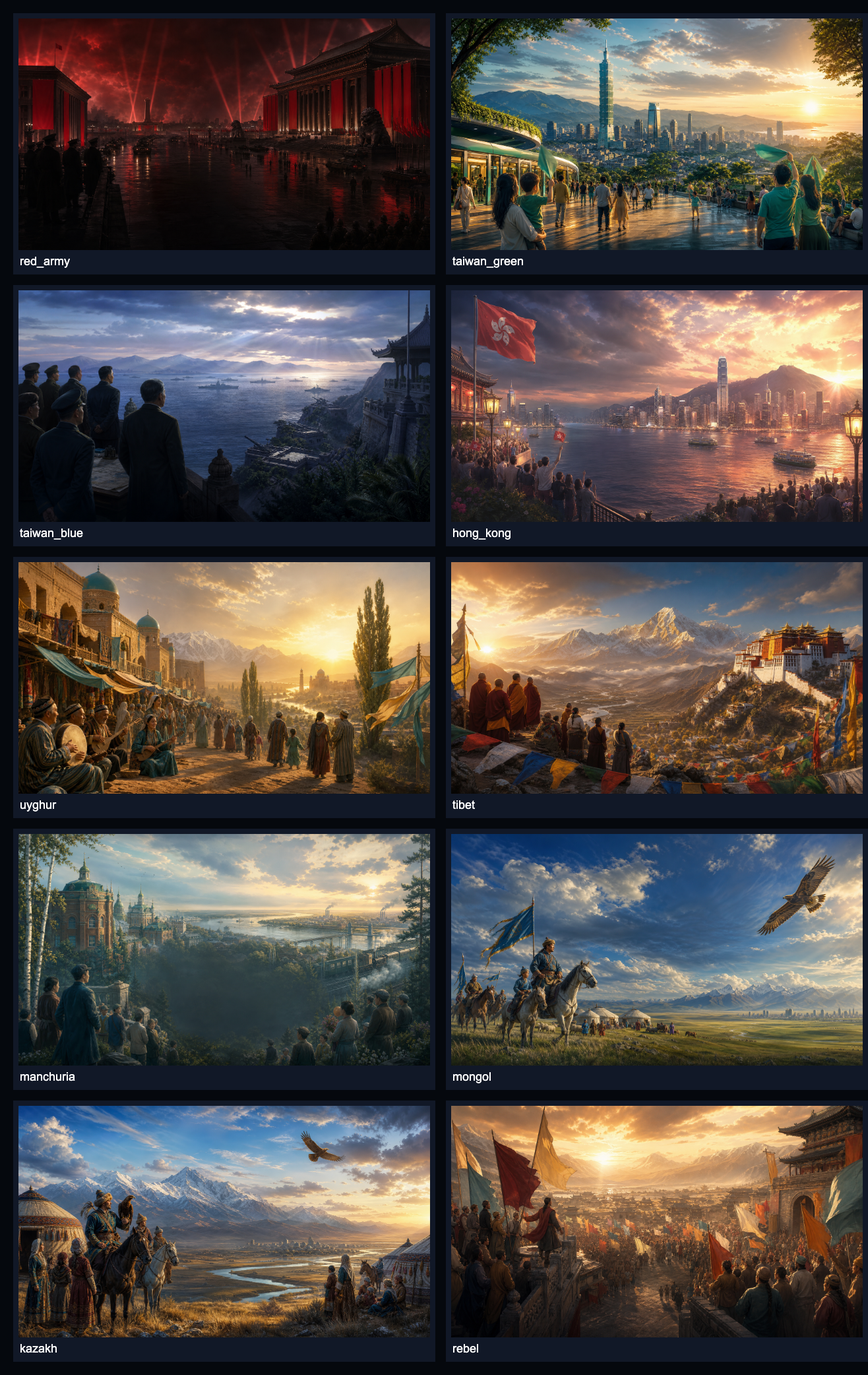
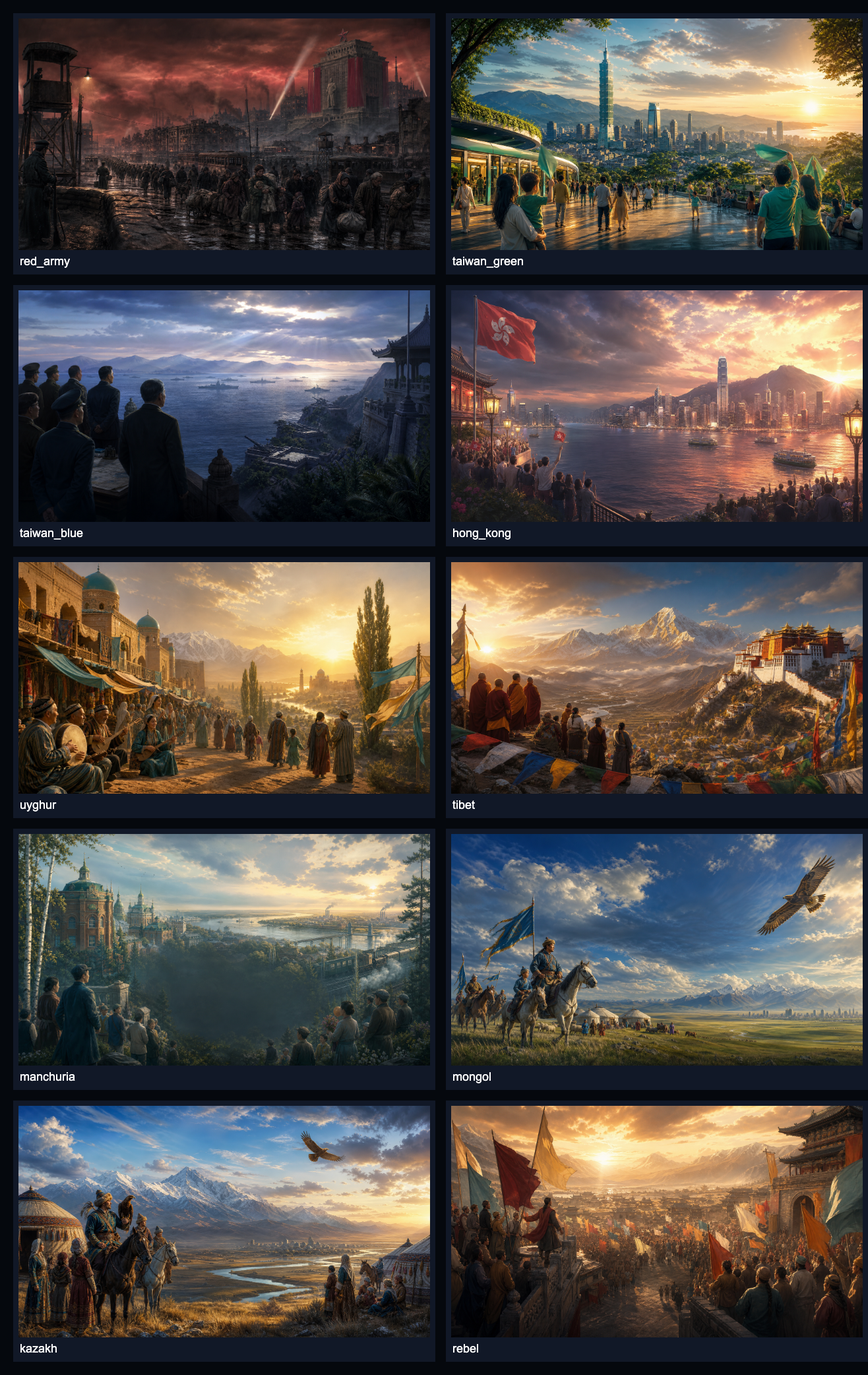
fix: 強化紅軍勝利後的生靈塗炭畫面

Changed region(s): [[0.0, 0.0, 0.4985, 0.1871]]

diff --git a/static/style.css b/static/style.css
@@ -2696,6 +2696,13 @@ button.player-status-discard-card:focus-visible {
   margin-bottom: 4px;
 }
 
+/* 紅軍結局把資訊板移到上緣，刻意露出下半部的流離失所者與泥濘難民隊伍；其他陣營仍維持
+   底部資訊板，讓這個結局第一眼就不是閱兵式勝利，而是政權勝利造成的人間災難。 */
+.victory-ending-scene--red_army + .victory-glass {
+  align-self: flex-start;
+  background: linear-gradient(135deg, rgba(7, 10, 16, 0.8), rgba(15, 23, 42, 0.64));
+}
+
 .victory-ending {
   margin: 6px 0 8px;
   overflow: hidden;

diff --git a/static/app.js b/static/app.js
@@ -3004,7 +3004,7 @@ function renderMyEraStageView(state = window.lastGameState || {}) {
 // 勝利畫面（2026-07-19）：state.winner 之前從未被前端顯示，遊戲結束毫無提示
 //（20 回合自動桌測發現）。winner 的值是「red_army」或獲勝玩家的名字（見 victory.py）。
 let victoryModalDismissedFor = null;
-const VICTORY_ENDING_ART_VERSION = '20260806-ai-v1';
+const VICTORY_ENDING_ART_VERSION = '20260806-ai-v2';
 
 function victoryEndingArtUrl(sceneKey) {
   return sceneKey

diff --git a/static/index.html b/static/index.html
@@ -4,7 +4,7 @@
   <meta charset="UTF-8" />
   <title>REDLINE // STRATEGIC COMMAND</title>
   <link rel="icon" href="data:," />
-  <link rel="stylesheet" href="/static/style.css?v=victory-ai-art-20260806" />
+  <link rel="stylesheet" href="/static/style.css?v=victory-ai-art-red-20260806" />
 </head>
 <body>
 <div id="stageViewport">

diff --git a/scripts/generate_victory_ending_ai_art.py b/scripts/generate_victory_ending_ai_art.py
@@ -12,6 +12,7 @@ Existing non-empty PNGs are skipped, so interrupted batches can be resumed safel
 
 from __future__ import annotations
 
+import argparse
 import importlib
 import json
 import shutil
@@ -35,11 +36,16 @@ STYLE = (
 
 SCENES = {
     "red_army": (
-        "Red Army victory: a vast authoritarian capital at night inspired by Beijing, "
-        "monumental government architecture, regimented red searchlights and severe crimson "
-        "banners without symbols, armored silhouettes far in the background, rain-wet plaza, "
-        "ordinary people reduced to small shadowed figures, oppressive iron-red sky. The mood "
-        "is chilling triumph and total control, not celebration."
+        "Red Army victory, shown entirely from the human cost of totalitarian conquest: a once-"
+        "prosperous East Asian metropolis has become a rain-soaked wasteland of burned apartment "
+        "blocks, collapsed shops, shattered civic buildings, blacked-out homes and abandoned "
+        "public transit. Long columns of exhausted displaced civilians—elderly people, parents "
+        "carrying children, families dragging their remaining belongings—move through mud and "
+        "ash beneath armed checkpoints and watchtowers. Searchlights rake the ruins, factory smoke "
+        "and distant fires choke an iron-red sky, severe blank crimson banners hang from a vast "
+        "authoritarian monument. Show hunger, grief, fear, homelessness and a whole society crushed; "
+        "the victory must feel unmistakably catastrophic, bleak and morally horrifying, never "
+        "heroic or celebratory. No gore, no corpses, no active violence."
     ),
     "taiwan_green": (
         "Taiwan green-line victory: a free, democratic and prosperous Taiwan at sunrise, "
@@ -111,35 +117,39 @@ def png_dimensions(path: Path) -> tuple[int, int]:
 
 
 def main() -> None:
+    parser = argparse.ArgumentParser()
+    parser.add_argument("--scene", choices=SCENES, help="Generate only one scene")
+    parser.add_argument("--force", action="store_true", help="Replace an existing scene")
+    args = parser.parse_args()
+
     provider_module = importlib.import_module("plugins.image_gen.openai-codex")
     provider = provider_module.OpenAICodexImageGenProvider()
     if not provider.is_available():
         raise SystemExit("No usable Codex OAuth token")
 
     OUTPUT_DIR.mkdir(parents=True, exist_ok=True)
-    manifest: dict[str, dict[str, object]] = {}
+    selected = {args.scene: SCENES[args.scene]} if args.scene else SCENES
 
-    for index, (key, scene) in enumerate(SCENES.items(), start=1):
+    for index, (key, scene) in enumerate(selected.items(), start=1):
         destination = OUTPUT_DIR / f"{key}.png"
-        if destination.exists() and destination.stat().st_size > 0:
+        if not args.force and destination.exists() and destination.stat().st_size > 0:
             width, height = png_dimensions(destination)
-            print(f"[{index}/{len(SCENES)}] SKIP {key}: {width}x{height}", flush=True)
-            manifest[key] = {
-                "file": destination.relative_to(ROOT).as_posix(),
-                "width": width,
-                "height": height,
-                "prompt": STYLE + scene,
-            }
+            print(f"[{index}/{len(selected)}] SKIP {key}: {width}x{height}", flush=True)
             continue
 
-        print(f"[{index}/{len(SCENES)}] GENERATE {key}", flush=True)
+        print(f"[{index}/{len(selected)}] GENERATE {key}", flush=True)
         result = provider.generate(STYLE + scene, aspect_ratio="landscape")
         if not result.get("success"):
             raise RuntimeError(f"Generation failed for {key}: {result}")
         source = Path(str(result["image"]))
         shutil.copy2(source, destination)
         width, height = png_dimensions(destination)
-        print(f"[{index}/{len(SCENES)}] SAVED {destination} ({width}x{height})", flush=True)
+        print(f"[{index}/{len(selected)}] SAVED {destination} ({width}x{height})", flush=True)
+
+    manifest: dict[str, dict[str, object]] = {}
+    for key, scene in SCENES.items():
+        destination = OUTPUT_DIR / f"{key}.png"
+        width, height = png_dimensions(destination)
         manifest[key] = {
             "file": destination.relative_to(ROOT).as_posix(),
             "width": width,

diff --git a/scripts/validate_victory_fullscreen_ai_art.py b/scripts/validate_victory_fullscreen_ai_art.py
@@ -143,8 +143,39 @@ def main() -> None:
                 and glass["bottom"] <= 720
                 and glass["height"] <= 346
             )
-            record(f"browser_{scene_key}_fills_stage_with_bottom_results_panel", ok, measurement)
+            record(f"browser_{scene_key}_fills_stage_with_results_panel", ok, measurement)
             page.screenshot(path=str(RECORD_DIR / f"victory_{scene_key}.png"))
+
+        # 覆寫紅軍 proof 為真正 winner='red_army' 的正式狀態，不使用上方視覺矩陣的 faction 置換。
+        red_setup = post_json("/test/setup-victory-proof", {"winner": "red_army"})
+        red_page = context.new_page()
+        red_page.on("console", lambda message: console_errors.append(message.text) if message.type == "error" else None)
+        red_page.on("pageerror", lambda error: console_errors.append(str(error)))
+        red_page.goto(
+            f"{BASE_URL}/?game_id={red_setup['game_id']}&player_id={red_setup['player_id']}",
+            wait_until="networkidle",
+        )
+        red_page.wait_for_function(
+            "() => { const image = document.getElementById('victoryEndingArt'); return image?.complete && image.naturalWidth > 0; }"
+        )
+        red_page.evaluate("() => { if (typeof closeEventReveal === 'function') closeEventReveal(); }")
+        red_page.wait_for_timeout(100)
+        red_actual = red_page.evaluate(
+            """() => ({
+                title: document.getElementById('victoryTitle')?.textContent,
+                sceneClass: document.getElementById('victoryEndingScene')?.className,
+                glassTop: document.querySelector('.victory-glass')?.getBoundingClientRect().top,
+            })"""
+        )
+        record(
+            "actual_red_army_winner_uses_catastrophe_art_and_top_panel",
+            red_actual["title"] == "RED 獲勝"
+            and "victory-ending-scene--red_army" in red_actual["sceneClass"]
+            and red_actual["glassTop"] <= 32,
+            red_actual,
+        )
+        red_page.screenshot(path=str(RECORD_DIR / "victory_red_army.png"))
+        red_page.close()
 
         contact = context.new_page()
         cards = "".join(

diff --git a/TODO.md b/TODO.md
@@ -32,6 +32,7 @@
   - **2026-08-06 使用者推翻 CSS/SVG 暫代方案，要求改用 AI 插畫且採全版畫面；已完成**：確認目前 Hermes 內建的 `plugins.image_gen.openai-codex` 可透過 Codex OAuth 使用 OpenAI Responses `image_generation`，以 `gpt-image-2-medium` 為 10 種結局場景各產生一張 1672×941 的 16:9 無 UI 插畫：紅軍、臺灣綠線、臺灣藍線、香港、維吾爾、西藏、滿洲、蒙古、哈薩克、反賊。成品與完整 prompt manifest 放在 `static/victory-art/`，可續跑腳本為 `scripts/generate_victory_ending_ai_art.py`；全部逐張人工檢查過構圖、人物、地標、裁切及明顯破圖，總覽位於 `docs/records/playtest-flow/victory-ai-art/victory_ai_art_contact_sheet.png`。
     - **全版整合**（`static/index.html`／`static/style.css`／`static/app.js`）：AI 圖片改為 `#victoryModal` 最底層的 1280×720 全舞台 `object-fit:cover` 背景，不再是敘事卡裡 130px 高的小橫幅；結果資訊改成舞台底部橫向毛玻璃板，左欄放勝利者與客製結局敘事，右欄放牆內／牆外／資源戰況表，上方保留大面積電影式插畫。圖片載入失敗時保留深色漸層 fallback；切換陣營時依 `sceneKey` 換圖，並以版本 query 避免舊快取。
     - **正式驗證**：新增 `scripts/validate_victory_fullscreen_ai_art.py`，逐一檢查 10 張 runtime PNG 尺寸、10 種陣營的正式 browser 全舞台覆蓋、場景 class、圖片載入、底部資訊板邊界與 console，**21/21 passed**；既有 `validate_victory_screen_and_creator_name.py` **5/5 passed**；完整可收集 pytest（既有 4 個會在 collection 直接跑外部 WS/Playwright/Lobby 流程的檔案依既定方式 ignore）**280/280 passed**。正式綠線全版截圖已更新 `docs/records/playtest-flow/victory_screen.png`，10 種實際 UI 截圖及驗證紀錄位於 `docs/records/playtest-flow/victory-ai-art/`。
+  - **2026-08-06 使用者驗收後要求紅軍結局必須更明顯「生靈塗炭」；已重製**：第一版紅軍圖偏向整齊的威權閱兵廣場，雖陰森但仍有「盛大勝利」感，不夠呈現一般人的災難。重新強化 OpenAI 產圖 prompt，改為燒毀公寓、坍塌商店、斷電城市、廢棄大眾運輸、工業黑煙、軍事檢查哨與探照燈；前景明確放入老人、抱著孩子的父母、拖著僅存家當的流離失所者，在泥濘與灰燼中排成長隊，禁止血腥、屍體與正在發生的暴力，但必須讓飢餓、悲痛、恐懼與無家可歸一眼可見。為避免底部結算板遮住最關鍵的難民隊伍，紅軍專屬畫面把資訊板移到上緣並略微提高透明度，其他 9 種陣營仍維持底部資訊板。生成腳本新增 `--scene`／`--force`，可只重生指定場景而不覆蓋其他成品；圖片 cache 版本同步升到 `ai-v2`。正式 `winner='red_army'` browser proof 另立真實 fixture，會先關閉可能遮擋的事件卡 Zoom-in，再驗證 `RED 獲勝`、紅軍場景 class 與上緣資訊板，聚焦驗證更新為 **22/22 passed**；最終截圖為 `docs/records/playtest-flow/victory-ai-art/victory_red_army.png`。
 
 ### P2：其他玩家使用能力/卡牌時，應該跳出可縮小的通知視窗，顯示卡牌圖片
 - [done] 使用者需求：當某一玩家使用能力和卡牌時，其他玩家應該也要直接跳出視窗，看到其他人正在做什麼，使用什麼能力和卡牌，卡牌的圖片要秀出來。不想看可以縮到左下角，變一個小視窗。（2026-08-06 使用者提出並要求處理）

diff --git a/docs/records/playtest-flow/victory-ai-art/VICTORY_AI_ART_VALIDATION.md b/docs/records/playtest-flow/victory-ai-art/VICTORY_AI_ART_VALIDATION.md
@@ -2,8 +2,8 @@
 
 重跑：`uv run --with playwright python scripts/validate_victory_fullscreen_ai_art.py`
 
-- total: 21
-- passed: 21
+- total: 22
+- passed: 22
 - failed: 0
 - contact sheet: `/Users/benmini/.openclaw/workspace/redline/docs/records/playtest-flow/victory-ai-art/victory_ai_art_contact_sheet.png`
 
@@ -18,14 +18,15 @@
 - ✅ `asset_mongol_is_landscape_png`
 - ✅ `asset_kazakh_is_landscape_png`
 - ✅ `asset_rebel_is_landscape_png`
-- ✅ `browser_red_army_fills_stage_with_bottom_results_panel`
-- ✅ `browser_taiwan_green_fills_stage_with_bottom_results_panel`
-- ✅ `browser_taiwan_blue_fills_stage_with_bottom_results_panel`
-- ✅ `browser_hong_kong_fills_stage_with_bottom_results_panel`
-- ✅ `browser_uyghur_fills_stage_with_bottom_results_panel`
-- ✅ `browser_tibet_fills_stage_with_bottom_results_panel`
-- ✅ `browser_manchuria_fills_stage_with_bottom_results_panel`
-- ✅ `browser_mongol_fills_stage_with_bottom_results_panel`
-- ✅ `browser_kazakh_fills_stage_with_bottom_results_panel`
-- ✅ `browser_rebel_fills_stage_with_bottom_results_panel`
+- ✅ `browser_red_army_fills_stage_with_results_panel`
+- ✅ `browser_taiwan_green_fills_stage_with_results_panel`
+- ✅ `browser_taiwan_blue_fills_stage_with_results_panel`
+- ✅ `browser_hong_kong_fills_stage_with_results_panel`
+- ✅ `browser_uyghur_fills_stage_with_results_panel`
+- ✅ `browser_tibet_fills_stage_with_results_panel`
+- ✅ `browser_manchuria_fills_stage_with_results_panel`
+- ✅ `browser_mongol_fills_stage_with_results_panel`
+- ✅ `browser_kazakh_fills_stage_with_results_panel`
+- ✅ `browser_rebel_fills_stage_with_results_panel`
+- ✅ `actual_red_army_winner_uses_catastrophe_art_and_top_panel`
 - ✅ `browser_console_has_no_errors`
